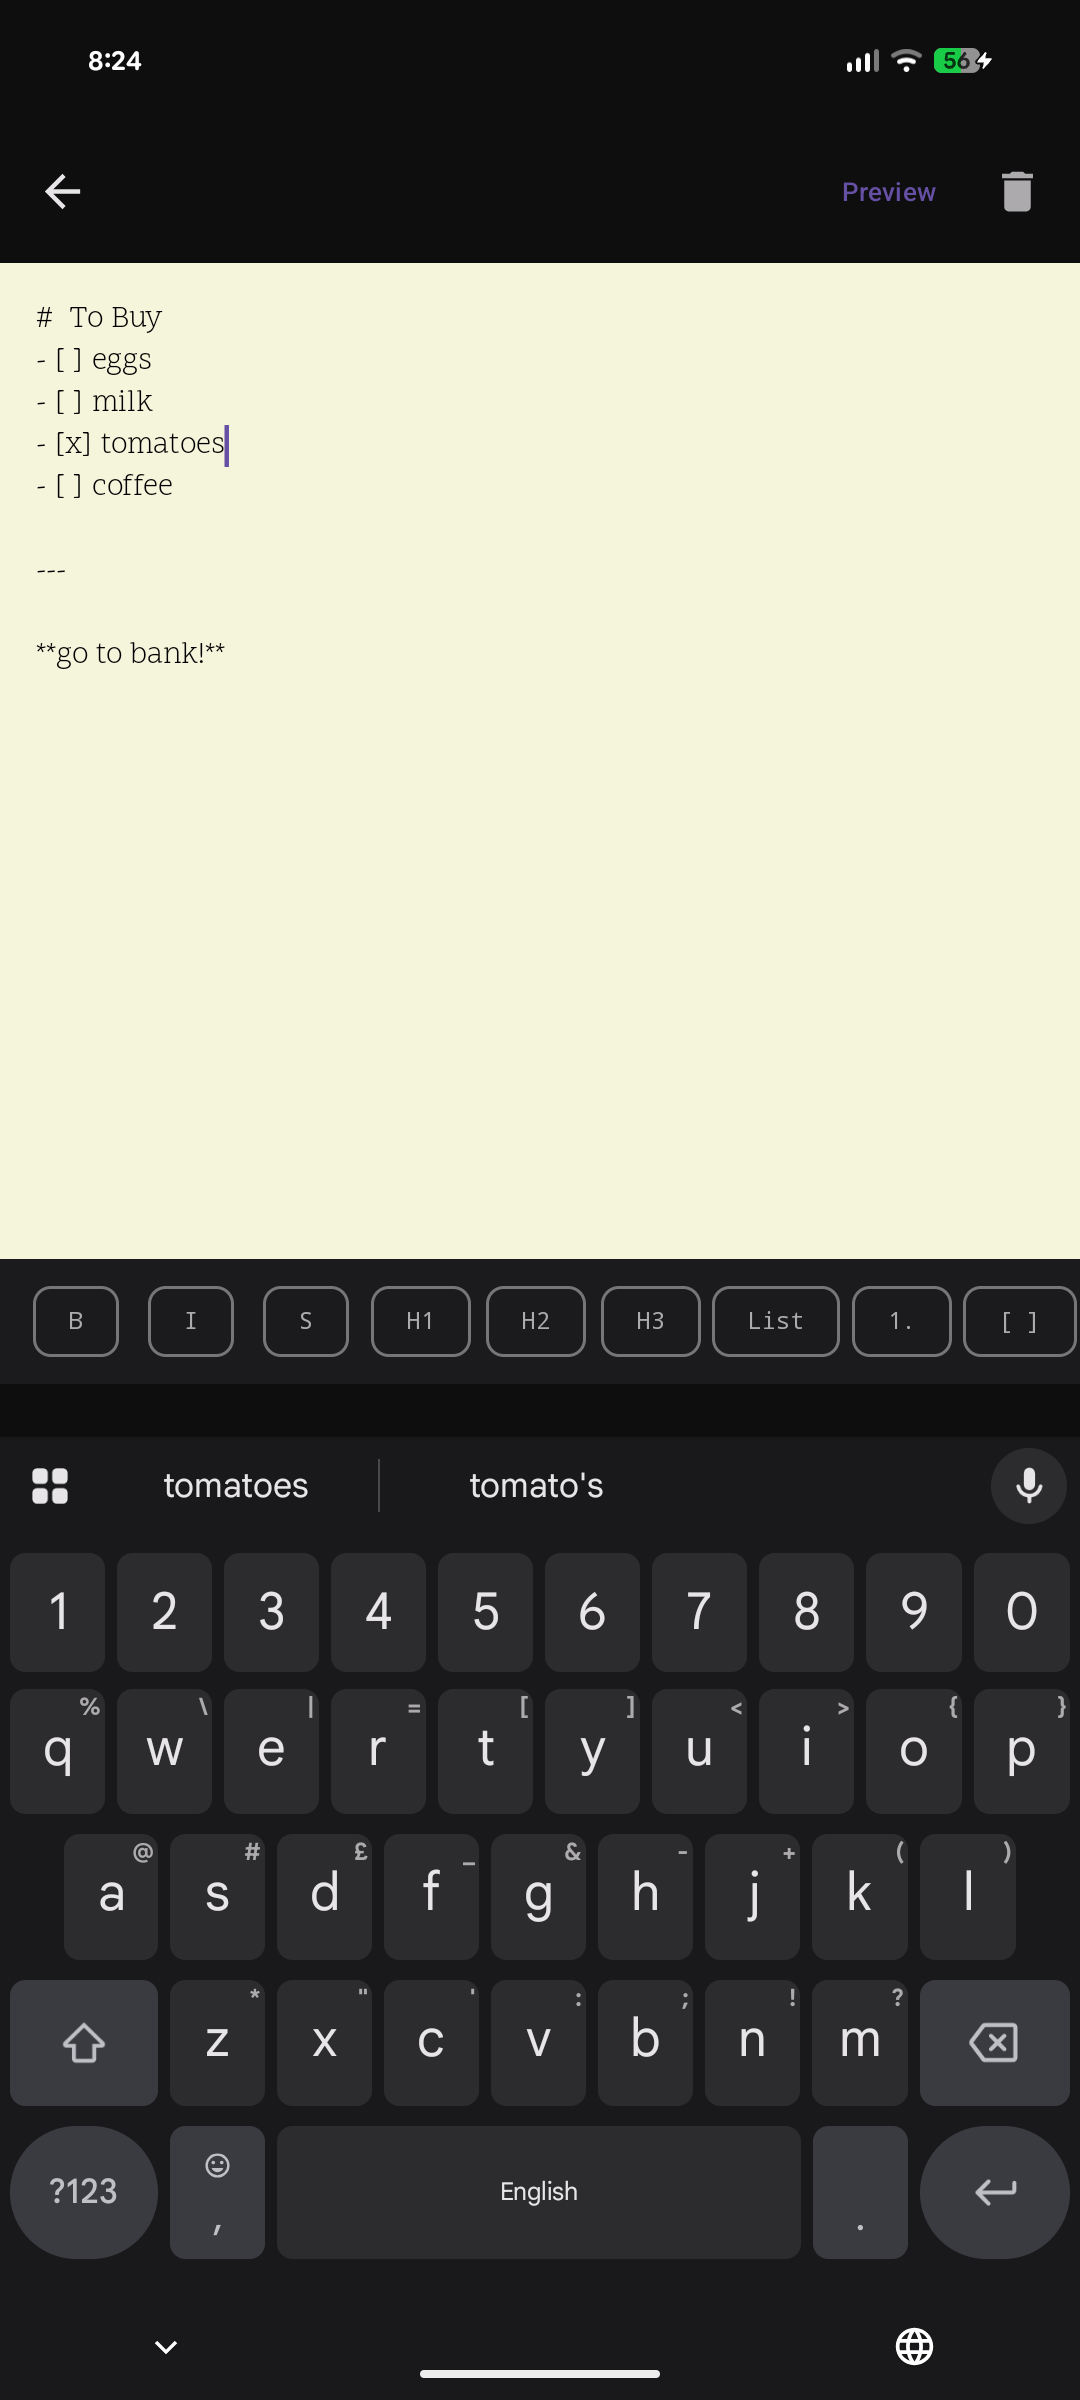
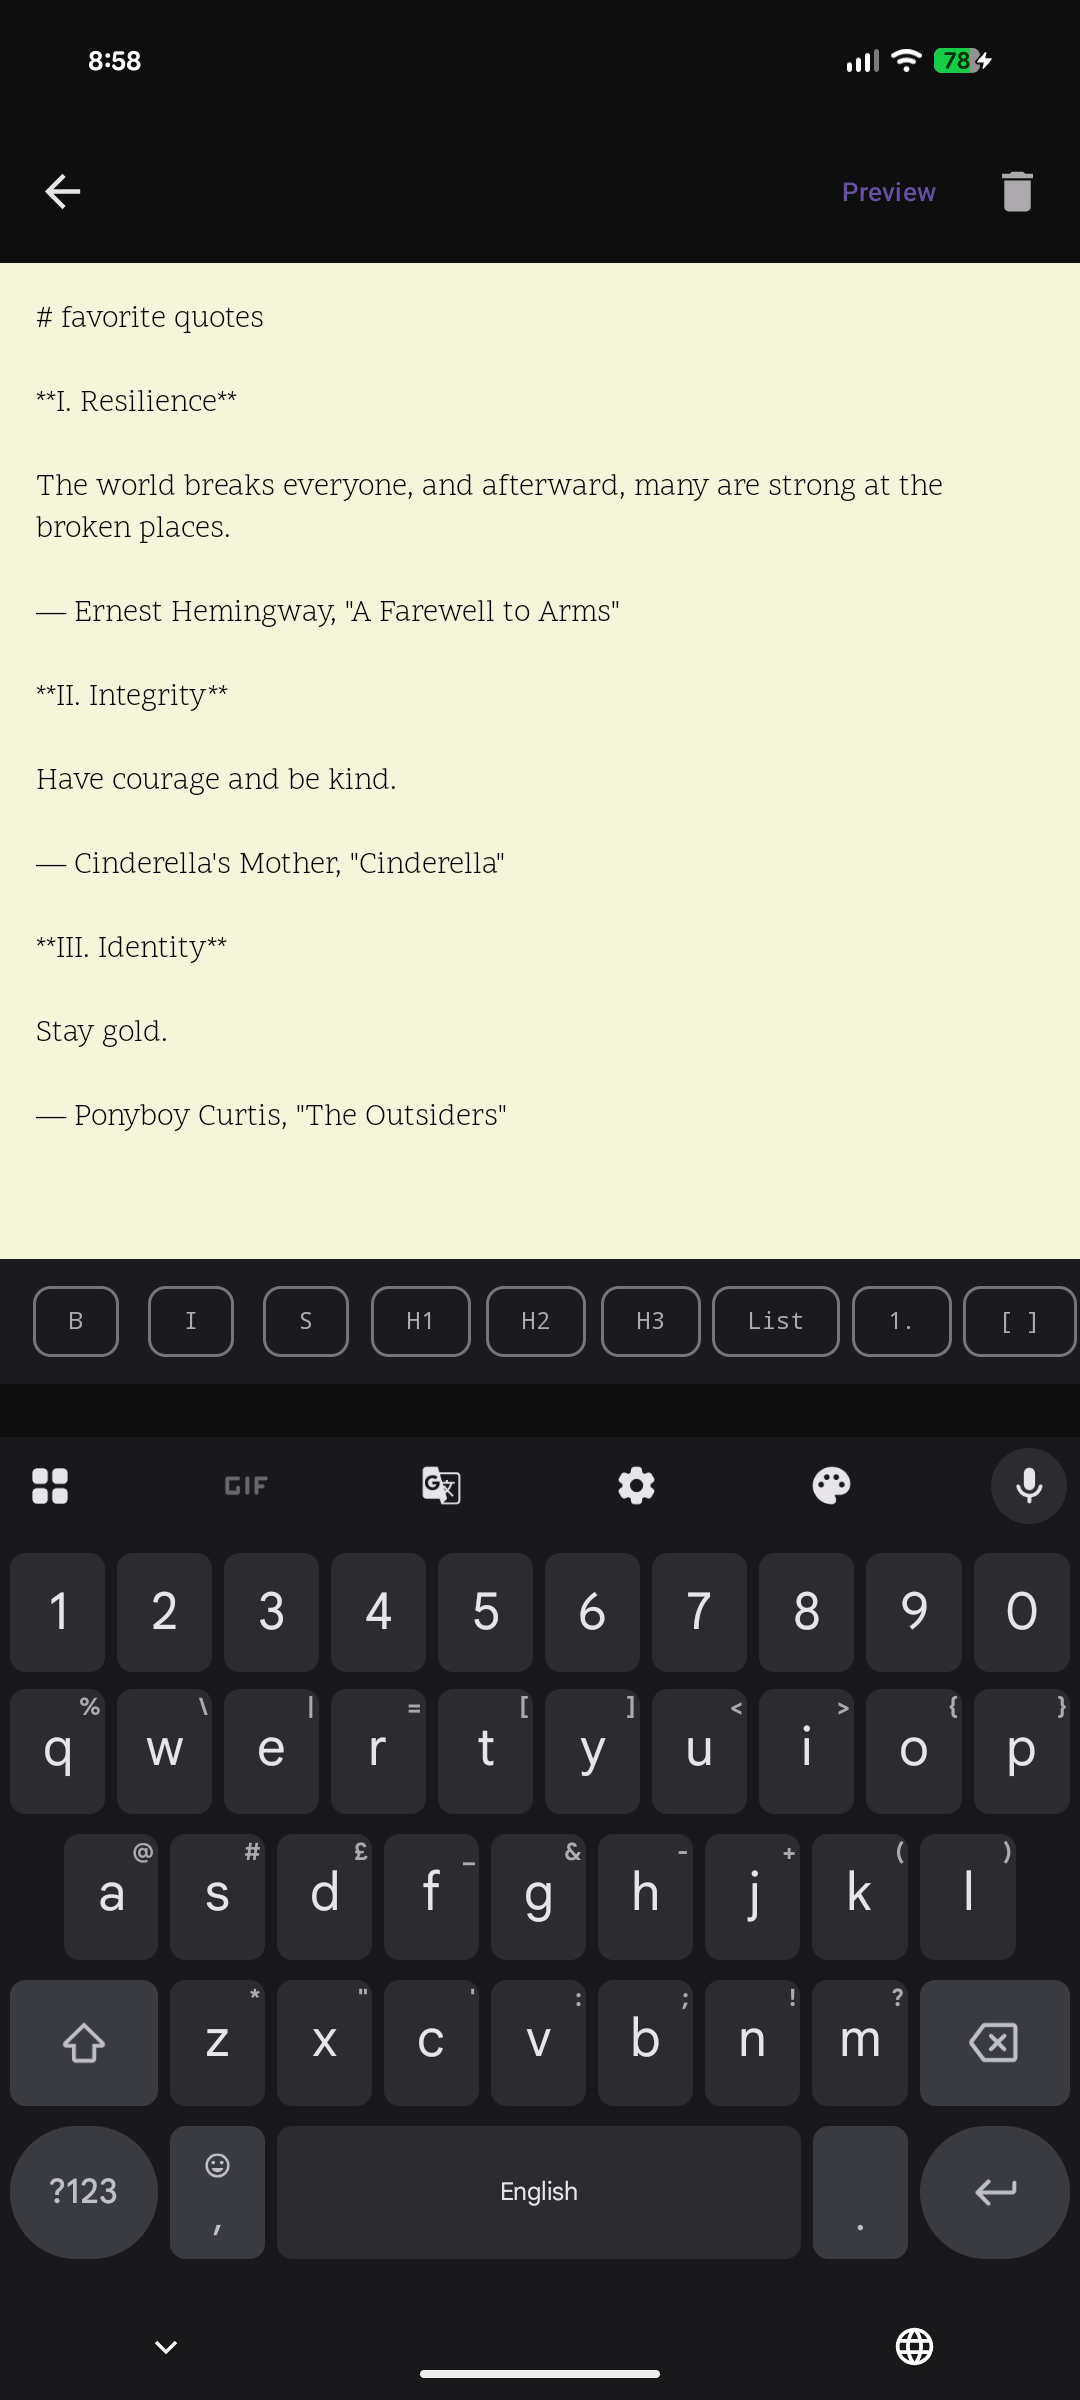
update: (20260329-090236)

diff --git a/README.md b/README.md
@@ -10,8 +10,8 @@ A minimalist text-based note app with Git sync.
 
 <p>
   <img src="https://github.com/user-attachments/assets/559015eb-0cc8-4d3f-a08a-1599d1044a58" width="180" alt="List screen" />
-  <img src="https://github.com/user-attachments/assets/db213862-df2b-4620-bf36-697c7ca7f62b" width="180" alt="Edit screen" />
-  <img src="https://github.com/user-attachments/assets/c54ca296-42a1-45ed-a6cc-487eb3106509" width="180" alt="Preview screen" />
+  <img src="https://github.com/user-attachments/assets/84ad1a98-b7c1-4e55-ab82-5b26ceeb9958" width="180" alt="Edit screen" />
+  <img src="https://github.com/user-attachments/assets/58488527-2b91-433f-be86-cd4155f5b369" width="180" alt="Preview screen" />
   <img src="https://github.com/user-attachments/assets/cc3cc969-4ef2-407d-a25b-52a273b6667f" width="180" alt="Settings screen" />
 </p>
 
